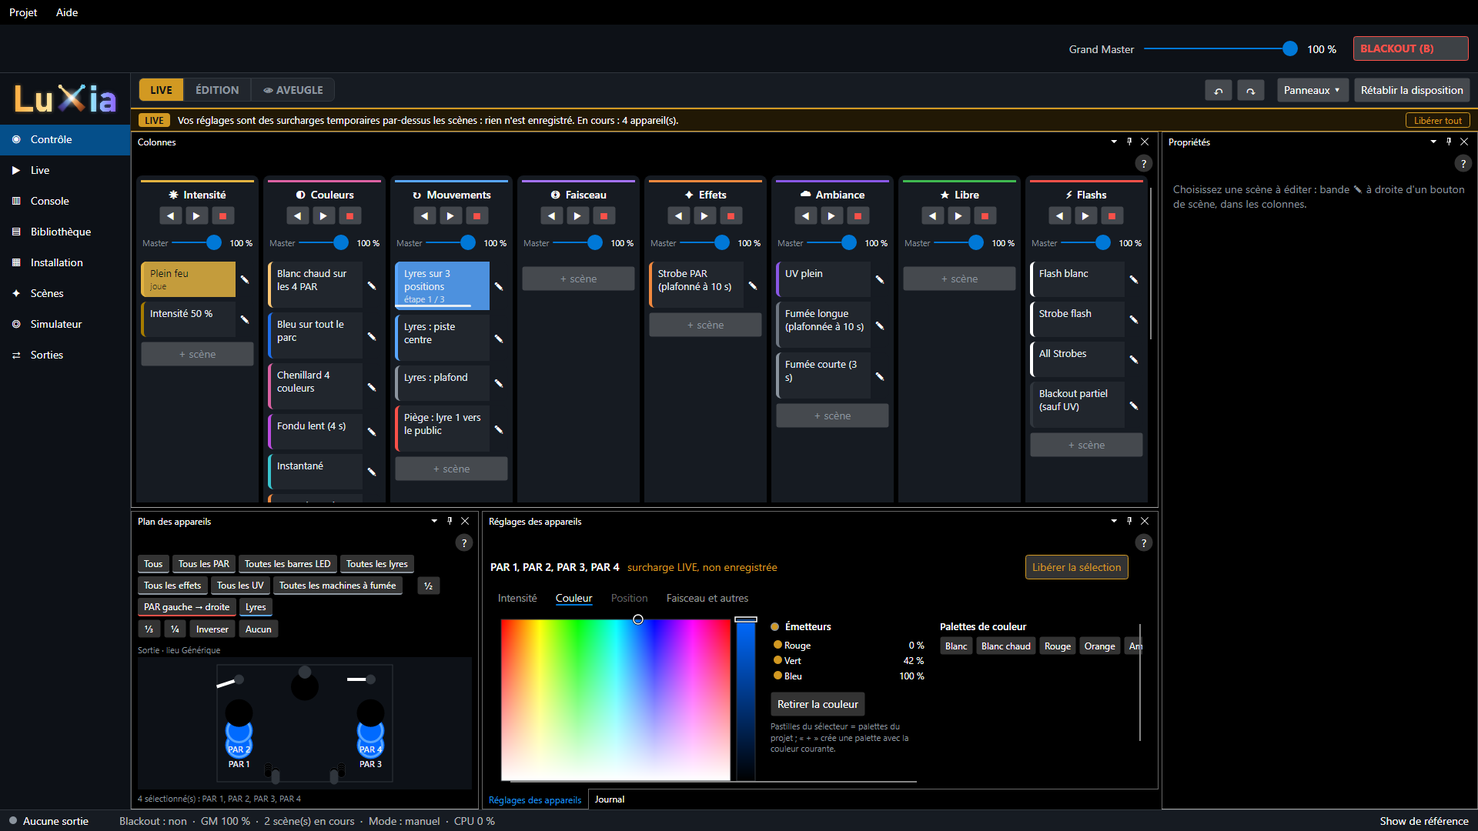
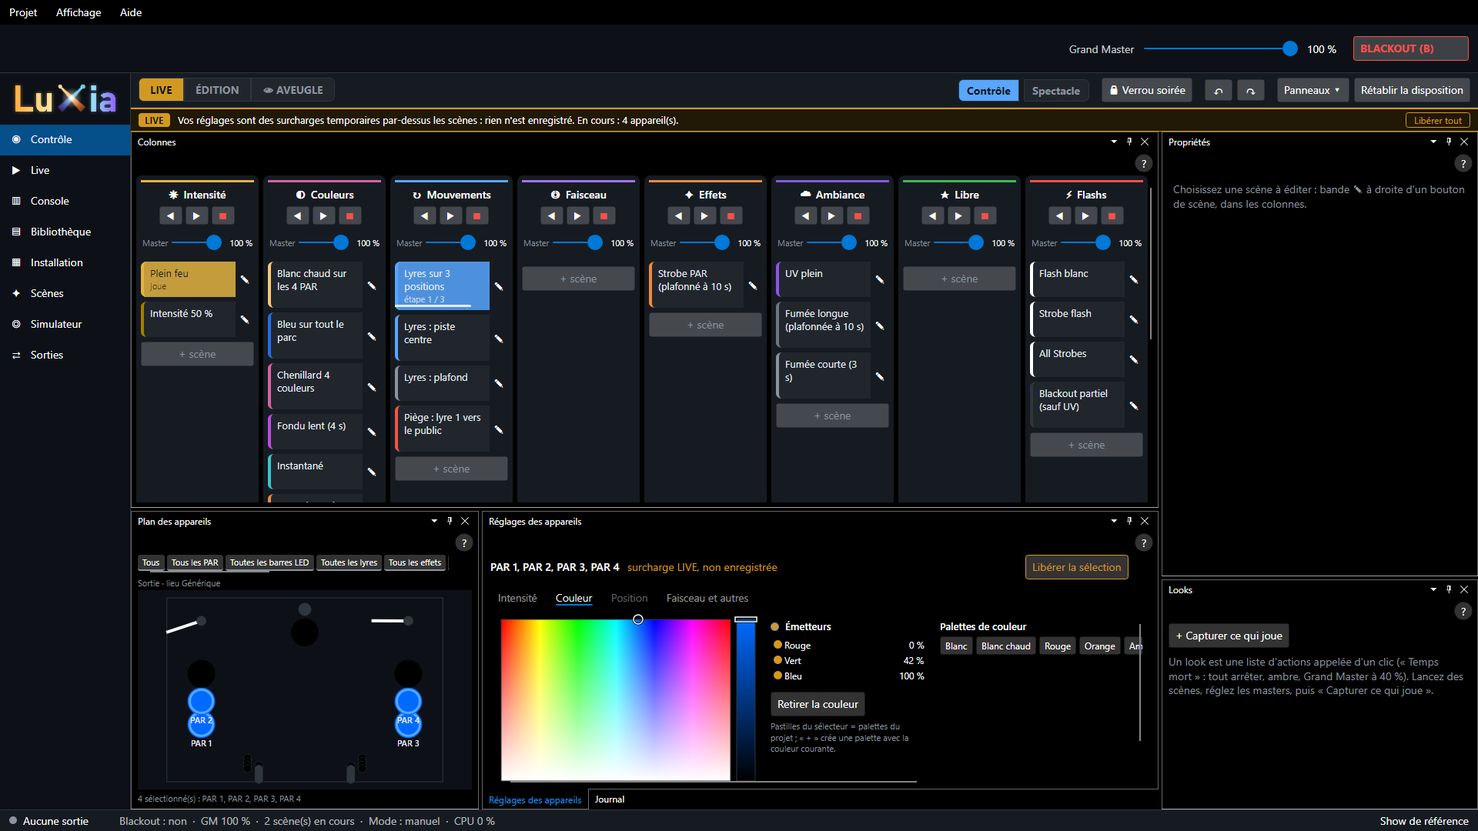
feat(controle): looks sur F1-F12 ; journal technique propre au démarrage (capacités Dock, épaisseur de contour) ; guide, fiches ERG-021 à ERG-024, passation
- Premier lancement réel sur la démo : Dock écrivait un avertissement par bouton (objets de capacités nuls) et le
  contour de la scène éditée était une épaisseur mal typée ; corrigés : 0 avertissement au journal technique.
- Guide ERG-controle §7 (looks, Spectacle, verrou, taille) ; captures de référence rafraîchies ; passation à jour.
- 597 tests verts.

Exigences : ERG-001, ERG-021, ERG-022, ERG-023, ERG-024

diff --git a/src/Luxia.UI.Modules.Control/Docking/DockTree.cs b/src/Luxia.UI.Modules.Control/Docking/DockTree.cs
@@ -59,6 +59,47 @@ public static class DockTree
         return (null, PanelPlace.Absent);
     }
 
+    /// <summary>Tous les éléments de la disposition : groupes et panneaux, fenêtres détachées et panneaux fermés compris.</summary>
+    public static IEnumerable<IDockable> All(IRootDock root)
+    {
+        ArgumentNullException.ThrowIfNull(root);
+        foreach (var dockable in Walk(root))
+        {
+            yield return dockable;
+        }
+
+        foreach (var hidden in root.HiddenDockables ?? [])
+        {
+            yield return hidden;
+        }
+
+        foreach (var window in root.Windows ?? [])
+        {
+            if (window.Layout is { } layout)
+            {
+                foreach (var dockable in All(layout))
+                {
+                    yield return dockable;
+                }
+            }
+        }
+    }
+
+    private static IEnumerable<IDockable> Walk(IDockable dockable)
+    {
+        yield return dockable;
+        if (dockable is IDock dock)
+        {
+            foreach (var child in dock.VisibleDockables ?? [])
+            {
+                foreach (var inner in Walk(child))
+                {
+                    yield return inner;
+                }
+            }
+        }
+    }
+
     /// <summary>Premier groupe d'onglets de panneaux (pour y remettre un panneau absent).</summary>
     public static IToolDock? FirstToolDock(IDock dock)
     {

diff --git a/src/Luxia.UI.Modules.Control/Views/ControlView.axaml.cs b/src/Luxia.UI.Modules.Control/Views/ControlView.axaml.cs
@@ -104,6 +104,13 @@ public partial class ControlView : UserControl
                 return;
             }
 
+            // ERG-023 : F1 à F12 jouent les looks 1 à 12.
+            if (e.Key is >= Key.F1 and <= Key.F12 && e.KeyModifiers == KeyModifiers.None && vm.Looks.PlayAt(e.Key - Key.F1))
+            {
+                e.Handled = true;
+                return;
+            }
+
             if (e.Key == Key.Escape && vm.HasModeAction)
             {
                 vm.ModeActionCommand.Execute(null);
@@ -172,6 +179,19 @@ public partial class ControlView : UserControl
     // l'a rangé (fenêtres détachées et panneaux fermés compris).
     private void AssignContexts(IRootDock root)
     {
+        // Dock lie ses boutons à ces objets de « capacités » : nuls, chaque liaison écrivait un avertissement au journal
+        // technique (vu au premier lancement réel) ; vides, ils ne changent rien au comportement.
+        foreach (var dockable in DockTree.All(root))
+        {
+            dockable.DockCapabilityOverrides ??= new DockCapabilityOverrides();
+            if (dockable is IDock dock)
+            {
+                dock.DockCapabilityPolicy ??= new DockCapabilityPolicy();
+            }
+        }
+
+        root.RootDockCapabilityPolicy ??= new DockCapabilityPolicy();
+
         if (ViewModel is not { } vm)
         {
             return;

diff --git a/src/Luxia.UI.Modules.Control/LooksPanelViewModel.cs b/src/Luxia.UI.Modules.Control/LooksPanelViewModel.cs
@@ -68,6 +68,18 @@ public sealed partial class LooksPanelViewModel : ViewModelBase
         _journal.Log($"✦ look « {look.Name} »");
     }
 
+    /// <summary>Touches F1 à F12 (écran Contrôle) : joue le look de ce rang (0 = le premier). Renvoie vrai s'il existe.</summary>
+    public bool PlayAt(int index)
+    {
+        if (index < 0 || index >= Looks.Count)
+        {
+            return false;
+        }
+
+        Play(Looks[index]);
+        return true;
+    }
+
     /// <summary>Crée un look qui refait ce qui joue maintenant.</summary>
     [RelayCommand]
     private async Task CaptureAsync()
@@ -165,9 +177,10 @@ public sealed partial class LooksPanelViewModel : ViewModelBase
     {
         var project = _runtime.Project;
         Looks.Clear();
-        foreach (var look in project.Looks.Looks)
+        foreach (var (look, index) in project.Looks.Looks.Select((l, i) => (l, i)))
         {
-            Looks.Add(new LookButtonViewModel(look, [.. look.Actions.Select(a => LookRules.Describe(a, project.Scenes, project.Layers))]));
+            var key = index < 12 ? $"F{index + 1}" : string.Empty;
+            Looks.Add(new LookButtonViewModel(look, [.. look.Actions.Select(a => LookRules.Describe(a, project.Scenes, project.Layers))], key));
         }
 
         OnPropertyChanged(nameof(IsEmpty));

diff --git a/tests/Luxia.UI.Tests/ControlPanelsTests.cs b/tests/Luxia.UI.Tests/ControlPanelsTests.cs
@@ -548,6 +548,22 @@ public sealed class ControlPanelsTests : IAsyncLifetime
     }
 
     [Fact]
+    [Trait("Exigence", "ERG-023")]
+    public async Task Looks_FunctionKeys_PlayByRank()
+    {
+        _host.Dialogs.TextAnswers.Enqueue("Premier");
+        await _vm.Looks.CaptureCommand.ExecuteAsync(null);
+        _host.Dialogs.TextAnswers.Enqueue("Second");
+        await _vm.Looks.CaptureCommand.ExecuteAsync(null);
+
+        _vm.Looks.Looks.Select(l => l.Key).ShouldBe(["F1", "F2"]);
+        _vm.Looks.PlayAt(1).ShouldBeTrue();
+        _vm.Looks.PlayAt(5).ShouldBeFalse("pas de 6e look");
+        _vm.Refresh();
+        _vm.Journal.Lines.ShouldContain(l => l.Contains("look « Second »"));
+    }
+
+    [Fact]
     [Trait("Exigence", "ERG-024")]
     public void LayoutPreset_SwitchesBetweenControlAndShow()
     {

diff --git a/src/Luxia.UI.Modules.Control/LookButtonViewModel.cs b/src/Luxia.UI.Modules.Control/LookButtonViewModel.cs
@@ -5,7 +5,8 @@ namespace Luxia.UI.Modules.Control;
 /// <summary>Un look affiché : nom, couleur, actions lisibles.</summary>
 /// <param name="Look">Look.</param>
 /// <param name="Lines">Actions en français, une par ligne.</param>
-public sealed record LookButtonViewModel(Look Look, IReadOnlyList<string> Lines)
+/// <param name="Key">Touche qui le joue (« F1 » à « F12 »), ou vide.</param>
+public sealed record LookButtonViewModel(Look Look, IReadOnlyList<string> Lines, string Key = "")
 {
     /// <summary>Nom.</summary>
     public string Name => Look.Name;

diff --git a/src/Luxia.UI.Modules.Control/ControlSceneViewModel.cs b/src/Luxia.UI.Modules.Control/ControlSceneViewModel.cs
@@ -64,7 +64,7 @@ public sealed partial class ControlSceneViewModel : ViewModelBase
     public string EditBandFill => IsEditTarget ? EditColor : "#161B22";
 
     /// <summary>Épaisseur du contour de la scène éditée.</summary>
-    public double OutlineThickness => IsEditTarget ? 2 : 0;
+    public Avalonia.Thickness OutlineThickness => new(IsEditTarget ? 2 : 0);
 
     /// <summary>
     /// Affiche tout de suite l'état attendu après un clic, sans le laisser écraser par un état du moteur antérieur à la

diff --git a/docs/32-passation.md b/docs/32-passation.md
@@ -2,9 +2,10 @@
 
 > Point d'entrée pour reprendre le développement dans une **nouvelle discussion** sans relire tout l'historique.
 > À tenir à jour à chaque fin de phase (section 1, 4 et 5). Dernière mise à jour : 2026-09-27, **P5 validée** (`main`, étiquette
-> **`v1.004`**) ; **analyse ergonomique validée** (doc 60, branche `ergo/analyse`) ; **prototype technique et maquettes
-> « Contrôle » réalisés** (version de développement 1.005, `v1.005.002`), **en attente des essais et de la validation de
-> l'utilisateur** (Q35). Ensuite : développement par lots (doc 60 §7.4), avant P6.
+> **`v1.004`**) ; **chantier ergonomique en cours** sur `ergo/analyse` (version de développement 1.005, dernière
+> étiquette **`v1.005.004`**) : l'**écran Contrôle** est dans LuXia, développé en autonomie la nuit du 2026-09-27 au
+> 28 par délégation de l'utilisateur (choix C1-C11 du doc 60 §11, à rediscuter à l'usage). **En attente de l'essai de
+> l'utilisateur** : guide [demos/ERG-controle.md](demos/ERG-controle.md) sur `samples/Démo Contrôle`.
 
 ## 1. Où en est-on
 
@@ -134,6 +135,28 @@
   - **À faire** : dérouler le guide [demos/ERG-prototype-et-maquettes.md](demos/ERG-prototype-et-maquettes.md) avec
     l'utilisateur (un point à la fois), relever les mesures (ERG-006), faire trancher **Q35** ; puis développement par
     lots (charte et composants → Contrôle → Live / Spectacle → Installation / Bibliothèque → Affectations).
+- **Nuit du 2026-09-27 au 28 — développement par délégation** (« prends les décisions qui te semblent les plus
+  pertinentes, présente-moi tes choix à la fin » ; « va le plus loin que tu peux, pousse les tests au maximum, réalise
+  des configurations d'exemple ») :
+  - **Écran « Contrôle »** (nouveau projet `Luxia.UI.Modules.Control`, en tête de la navigation ; Live et Scènes
+    restent, C5) : `ControlSession` (modes **LIVE / ÉDITION / AVEUGLE**, sélection partagée, un geste = une
+    annulation, écrit 0,5 s après le dernier mouvement), panneaux ancrables Dock (**Colonnes**, **Propriétés**,
+    **Plan des appareils**, **Réglages des appareils**, **Journal**, **Looks**, **Pilote automatique**), dispositions
+    **Contrôle** et **Spectacle** enregistrées sur le poste, menus Dock en français, **verrou soirée**, **F1-F12 =
+    looks**.
+  - **Moteur** : **zone permise** (`allowed` dans `lieux.json`, F7) ; défaut corrigé (surcharge span choisie pour un
+    tableau, doc 03 §11).
+  - **Données** : `looks.json` (ERG-023), `uiScale` des préférences (taille 100 / 125 / 150 %), 8e couche par défaut
+    **« Libre »** (ERG-008, fader 8 de l'APC).
+  - **Identité visuelle** (dossier de l'utilisateur → `docs/identite`) : icône, logo au démarrage, dans « À propos »,
+    en tête de la navigation, README.
+  - **Démo** : `tools/generer-demo-controle.py` → `samples/Démo Contrôle` (ignoré par Git) ; captures réelles dans
+    `docs/maquettes/captures`.
+  - Exigences **ERG-008 à ERG-024** (fiches), Q35 close par délégation. Tests : 597, tous verts ; 0 avertissement de
+    compilation ; 0 avertissement au journal technique au démarrage réel.
+  - **Reste du chantier** (doc 60 §7.4) : affectation MIDI / clavier par surcouche (E6, MIDI-008), déclencheurs MIDI
+    des looks, molette, mixeur live, retrait des écrans Live et Scènes après validation, Installation / Bibliothèque
+    en panneaux.
 ## 2. Lire avant de coder (dans cet ordre)
 
 1. [README](README.md), [02 – Principes](02-principes-et-architecture-fonctionnelle.md) (dont le **registre des décisions** §19, D1 à D28), [glossaire](glossaire.md).
@@ -159,6 +182,7 @@
 | `Luxia.Hosting` | Assemblage (D20), journal, session de projet, recompilation du moteur, moteur d'aperçu, outils sans interface, versions du projet, reprise, MIDI | `LuxiaRuntime` (`Engine`, `Preview`, `Midi`, `PendingResume`), `ProjectSession`, `ShowService`, `ProjectVersions`, `Tools/ProjectValidator`, `Tools/ScenarioRunner` |
 | `Luxia.UI.Controls` | Fader, moniteur, barre de plages, barre d'univers, simulateur 2D, historique annuler / rétablir, dialogues | `Fader`, `OutputMonitor`, `UniverseBar`, `SimulatorCanvas`, `RangeBar`, `UndoHistory` |
 | `Luxia.UI.Modules.*` | Un écran par projet : **Live** (premier écran), Console (+ faders d'appareil), Library, Outputs, Installation, Simulator, Scenes (+ fenêtres Couches…, Zones interdites…) | `LiveViewModel`, `ConsoleViewModel`, `FixtureFadersViewModel`, `LibraryViewModel`, `InstallationViewModel`, `SimulatorViewModel`, `ScenesViewModel` (+ `ProgrammerViewModel`, `SceneEditorViewModel`, `PalettesViewModel`, `LayersEditorViewModel`, `ZonesEditorViewModel`) |
+| `Luxia.UI.Modules.Control` | Écran **Contrôle** (doc 60) : session d'édition LIVE / ÉDITION / AVEUGLE, panneaux ancrables Dock (Colonnes, Propriétés, Plan, Réglages, Journal, Looks, Pilote), dispositions Contrôle / Spectacle, verrou soirée | `ControlSession`, `ControlViewModel`, `*PanelViewModel`, `Docking/ControlDockFactory`, `Docking/ControlLayoutStore`, `Views/ControlView` |
 | `Luxia.App` | Coquille Avalonia (navigation, menu Projet, menu Aide/À propos, barre d'état, verrou mono-instance) | `App`, `MainWindowViewModel`, `Program` |
 | `tools/Luxia.Tools.Headless` | `luxia-headless` : ports, **midi**, lancer, endurance, gigue, relire, projet, **valider**, **jouer**, **scenario** | `Commands`, `ProjectCommands` |
 | `tools/Luxia.Tools.Prototype` | Prototype ergonomique **séparé de LuXia** (`LuXia-Prototype.exe`) : ancrage Dock, dispositions, galerie, mesures, maquettes « Contrôle » ; captures sans écran | `ShellViewModel`, `Docking/PrototypeDockFactory`, `Docking/LayoutStore`, `Panels/*`, `Mockups/*`, `HeadlessCaptures` |
@@ -180,6 +204,7 @@ dotnet run --project src/Luxia.App -- "samples/Show de référence"
 dotnet run --project tools/Luxia.Tools.Headless -- valider "samples/Show de référence"
 dotnet run --project tools/Luxia.Tools.Headless -- jouer "samples/Show de référence" --scene "Chenillard 4 couleurs" --duree 3
 dotnet run --project tools/Luxia.Tools.Captures -- "samples/Show de référence" "<dossier des images>"
+PYTHONIOENCODING=utf-8 python tools/generer-demo-controle.py                  # samples/Démo Contrôle (essai de l'écran Contrôle)
 dotnet run --project tools/Luxia.Tools.Prototype                              # prototype ergonomique
 dotnet run --project tools/Luxia.Tools.Prototype -- --maquettes docs/maquettes # maquettes « Contrôle » en PNG
 ```
@@ -233,3 +258,4 @@ Modèle de message pour ouvrir une discussion :
 | 2026-09-27 | P5 | Guide P5 déroulé pas à pas avec l'utilisateur au matériel (exemples 1 à 13). Corrigés au fil de l'eau, chacun avec sa fiche : trois courses écran / moteur, cellule des sélections automatiques, Problèmes du projet, fumée, clavier, MIDI rapide, fenêtre de démarrage ; parc réel corrigé (BUV463 8 canaux, WT05). 505 tests verts. **Validée, fusionnée dans `main`, étiquette `v1.004`.** Prochaine étape : analyse ergonomique. |
 | 2026-09-27 | Ergonomie | Documentation remise à jour après P5 (anciens noms `Dmx.*` corrigés, notes de modules, doc 03 §11). Analyse ergonomique menée dans la discussion de P5 : lecture Daslight 4 / 5, captures des écrans, doc 60 (charte, déclencheurs et looks, composants, modules) ; **validée par l'utilisateur** (E1-E8, F1-F10). Outil `tools/fiche-exigences.py` versé au dépôt. Suite dans une nouvelle discussion : prototype technique puis maquettes. |
 | 2026-09-27 | Ergonomie | Prototype technique (Dock, grille Pan/Tilt, sélecteur de couleur, galerie, disposition enregistrée) et maquettes « Contrôle » sur `ergo/analyse` (`v1.005.001`, `v1.005.002`), ERG-001 à ERG-007, Q35 ; reliquats du renommage corrigés. **En attente des essais et de la validation de l'utilisateur.** |
+| 2026-09-28 | Ergonomie | Nuit de développement par délégation sur `ergo/analyse` (`v1.005.003`, `v1.005.004`) : écran Contrôle dans LuXia (modes, panneaux ancrables, dispositions Contrôle / Spectacle, verrou soirée, looks, F1-F12), zone permise, 8e couche « Libre », identité visuelle, taille de l'interface, démo `samples/Démo Contrôle` et guide `docs/demos/ERG-controle.md`. ERG-008 à ERG-024. **En attente de l'essai de l'utilisateur ; choix C1-C11 à rediscuter à l'usage.** |

diff --git a/docs/60-ergonomie.md b/docs/60-ergonomie.md
@@ -272,7 +272,7 @@ CONS-061) gardent leur identifiant et leur fiche.
 | ERG-020 | I | ERG | **Démonstration** : `tools/generer-demo-controle.py` fabrique `samples/Démo Contrôle` (couche Libre garnie, étapes nommées, zones permises des lyres) et le guide `docs/demos/ERG-controle.md` déroule l'essai. | Essai de l'utilisateur. |
 | ERG-021 | I | ERG | **Verrou soirée** (E7, §4.6), bouton « 🔒 Verrou soirée » de l'écran Contrôle : revient en LIVE et refuse ÉDITION, AVEUGLE, toute modification de scène (propriétés, étapes, menu contextuel, nouvelle scène), des zones, et annuler / rétablir, en disant pourquoi ; jouer et retoucher en direct restent possibles. Sans mot de passe (« Oui, simple »). | Test. |
 | ERG-022 | M | ERG | **Taille de l'interface** (F8) : menu Affichage → 100 / 125 / 150 %, gardée dans les préférences du poste (`uiScale`) ; les fenêtres détachées gardent leur taille. | Test des préférences ; capture à 125 %. |
-| ERG-023 | I | ERG | **Looks** (F1, §4.8) : `looks.json` (lancer / arrêter des scènes, arrêter une couche, tout arrêter, masters) ; panneau Looks : jouer d'un clic, « Capturer ce qui joue », mettre à jour, renommer, couleur, supprimer ; verrou : jouer seulement ; `valider` signale une référence introuvable. Déclencheurs clavier / MIDI : à venir. | Tests. |
+| ERG-023 | I | ERG | **Looks** (F1, §4.8) : `looks.json` (lancer / arrêter des scènes, arrêter une couche, tout arrêter, masters) ; panneau Looks : jouer d'un clic, « Capturer ce qui joue », mettre à jour, renommer, couleur, supprimer ; verrou : jouer seulement ; `valider` signale une référence introuvable. Touches **F1 à F12** = looks 1 à 12 (écran Contrôle) ; déclencheurs MIDI et entrée DMX : à venir. | Tests. |
 | ERG-024 | I | ERG | **Disposition Spectacle** (§6, F10) à côté de Contrôle, chacune enregistrée à part : colonnes en grand, panneau **Pilote automatique** (place réservée jusqu'à P10, avec les looks comme interventions), Looks, Journal. | Tests ; capture. |
 | ERG-007 | I | ERG | **Maquettes de la disposition Contrôle** (§7.3) : images rendues par Avalonia avec les vrais composants et des données fictives (modes LIVE / ÉDITION / AVEUGLE, scène en édition, zones), validées par l'utilisateur **avant** tout développement des écrans. | Validation de l'utilisateur. |
 

diff --git a/docs/31-matrice-exigences.md b/docs/31-matrice-exigences.md
@@ -359,9 +359,9 @@
 | [SORT-065](exigences/SORT-065.md) | M | Enregistrement des trames visible, chemin copiable | Réalisé |  |
 | [SORT-066](exigences/SORT-066.md) | M | Journal de l'enregistrement : actions, commandes et canaux entrelacés | Réalisé | LiveUvRepeatTests.Recording_JournalInterleavesClicksCommandsAndChannelChanges |
 
-## ERG – 20 exigences, 15 couvertes par des tests automatiques
+## ERG – 24 exigences, 19 couvertes par des tests automatiques
 
-> En cours : 1 · Réalisé : 19
+> En cours : 1 · Réalisé : 23
 
 | Exigence | Pri. | Titre | Statut | Tests automatiques |
 |---|---|---|---|---|
@@ -385,3 +385,7 @@
 | [ERG-018](exigences/ERG-018.md) | I | Colonnes de l'écran Contrôle | Réalisé | ControlPanelsTests.Columns_AreAllLayersByPriority_WithAllTheirScenes<br>ControlPanelsTests.ContextMenu_RenameDuplicateColorLayerHideDelete<br>ControlPanelsTests.EditBand_ChoosesThenReleasesTheScene_AndOutlinesIt<br>ControlPanelsTests.FlashLayer_PlaysOnlyWhileHeld<br>(+4) |
 | [ERG-019](exigences/ERG-019.md) | I | Réglages des appareils | Réalisé | ControlPanelsTests.Settings_AimTwoLyres_Relative_EachGetsItsOwnValues<br>ControlPanelsTests.Settings_ColorInLive_OverridesOutput_AndKeepsTheRequestedColorShown<br>ControlPanelsTests.Settings_HeaderSaysWhereSettingsGo<br>ControlPanelsTests.Settings_IntensityInEdit_IsWrittenAfterTheGesture<br>(+3) |
 | [ERG-020](exigences/ERG-020.md) | I | Démonstration | Réalisé |  |
+| [ERG-021](exigences/ERG-021.md) | I | Verrou soirée | Réalisé | ControlPanelsTests.Lock_PlayAndLiveStillWork_EditingIsRefused |
+| [ERG-022](exigences/ERG-022.md) | M | Taille de l'interface | Réalisé | PreferencesAndProjectTests.UiScale_DefaultsTo100Percent_AndRoundTrips |
+| [ERG-023](exigences/ERG-023.md) | I | Looks | Réalisé | ControlPanelsTests.Looks_CaptureWhatPlays_ThenReplayItFromAnotherState<br>ControlPanelsTests.Looks_FunctionKeys_PlayByRank<br>ControlPanelsTests.Looks_RenameColorDelete_AndLockRefusesEditingButNotPlaying<br>LookRulesTests.Commands_FollowTheActionsInOrder_IncompleteOnesAreSkipped<br>(+2) |
+| [ERG-024](exigences/ERG-024.md) | I | Disposition Spectacle | Réalisé | ControlLayoutTests.ShowPreset_BigColumnsPilotLooksJournal_SavedSeparately<br>ControlPanelsTests.LayoutPreset_SwitchesBetweenControlAndShow |

diff --git a/docs/demos/ERG-controle.md b/docs/demos/ERG-controle.md
@@ -85,12 +85,22 @@ panneau a un **?** qui explique à quoi il sert.
 | 2 | Fermer un panneau (✕), puis **Panneaux ▾** | « (fermé) » ; le choisir le remet à sa place. |
 | 3 | Quitter LuXia, relancer | Même disposition (enregistrée sur ce poste). **Rétablir la disposition** revient à celle livrée. |
 
-## 7. Ce qui reste comme avant
+## 7. Looks, disposition Spectacle, verrou, taille
+
+| # | Faire | Attendu |
+|---|---|---|
+| 1 | Panneau **Looks** (onglet sous Propriétés) : la démo en a trois, **F1** « Temps mort », **F2** « Retour de piste », **F3** « Ambiance UV » | Clic (ou touche F1…) : tout s'arrête et le look rejoue ses scènes et ses masters ; le Journal note « ✦ look ». Survol : la liste des actions. |
+| 2 | Lancer deux ou trois scènes, régler un master, **+ Capturer ce qui joue**, nommer | Nouveau look qui refait cet état ; clic droit : Mettre à jour, Renommer, Couleur, Supprimer. |
+| 3 | En haut : **Spectacle** | Colonnes en grand, panneau **Pilote automatique** (place réservée pour P10) avec les looks en gros boutons, Journal. **Contrôle** : on retrouve sa disposition. |
+| 4 | **🔒 Verrou soirée** | Retour en LIVE ; ÉDITION, AVEUGLE, ✎, « + scène », propriétés, zones, Ctrl + Z : refusés avec la raison ; jouer, retoucher en direct et les looks marchent. Re-clic : déverrouillé. |
+| 5 | Menu **Affichage → Taille de l'interface : 125 %** (ou 150 %) | Tout grossit ; gardé au prochain lancement. |
+
+## 8. Ce qui reste comme avant
 
 Les écrans **Live** et **Scènes** sont toujours là (choix C5) : on pourra comparer. Ils seront retirés quand le
 Contrôle aura fait ses preuves.
 
-## 8. Captures de référence
+## 9. Captures de référence
 
 `dotnet run --project tools/Luxia.Tools.Captures -- "samples/Show de référence" <dossier> 1920 1080` écrit aussi
 « Contrôle - LIVE surcharge », « Contrôle - ÉDITION », « Contrôle - AVEUGLE lyres », « Contrôle - zones » (copies dans

diff --git a/docs/exigences/ERG-023.md b/docs/exigences/ERG-023.md
@@ -1,0 +1,33 @@
+# ERG-023 – Looks
+
+| Champ | Valeur |
+|---|---|
+| **Statut** | Réalisé |
+| **Priorité** | I |
+| **Phase** | ERG |
+| **Source** | [doc 60 – 9. Exigences du chantier](../60-ergonomie.md) |
+| **Remarque** | Looks jouables d'un clic ou de F1-F12 ; déclencheurs MIDI / DMX et usage par le pilote automatique : à venir (P10). |
+| **Liens** | doc 60 §4.8, F1 ; doc 50 looks.json ; glossaire |
+
+## Description
+
+> **Looks** (F1, §4.8) : `looks.json` (lancer / arrêter des scènes, arrêter une couche, tout arrêter, masters) ; panneau Looks : jouer d'un clic, « Capturer ce qui joue », mettre à jour, renommer, couleur, supprimer ; verrou : jouer seulement ; `valider` signale une référence introuvable. Touches **F1 à F12** = looks 1 à 12 (écran Contrôle) ; déclencheurs MIDI et entrée DMX : à venir.
+
+**Critère d'acceptation** : Tests.
+
+## Réalisation
+
+- `Luxia.Scenes` : Look, LookAction, LookActionKind, LookSet, LookStore, LookRules ; `ProjectSession.Looks/SaveLooks` ; `ProjectValidator.CheckLooks` ; `LooksPanelViewModel`, `Views/LooksPanelView`, `Views/PilotPanelView`.
+
+## Tests
+
+- LookRulesTests
+- ControlPanelsTests.Looks_*
+
+## Historique
+
+| Date | Par | Type | Entrée |
+|---|---|---|---|
+| 2026-09-28 | Conception | Création | Exigence rédigée au cahier des charges (doc 60, 9. Exigences du chantier). |
+| 2026-09-28 | Claude | Décision | Premier pas vers les déclencheurs (F1) : un look se crée en capturant ce qui joue (tout arrêter, relancer les scènes sauf les flashs, masters de couche et Grand Master) ; le fichier est simple à écrire pour une IA (doc 50). Touches F1-F12 dans l'écran Contrôle. |
+| 2026-09-28 | Claude | Développement | 88692dc. |

diff --git a/docs/exigences/ERG-021.md b/docs/exigences/ERG-021.md
@@ -1,0 +1,33 @@
+# ERG-021 – Verrou soirée
+
+| Champ | Valeur |
+|---|---|
+| **Statut** | Réalisé |
+| **Priorité** | I |
+| **Phase** | ERG |
+| **Source** | [doc 60 – 9. Exigences du chantier](../60-ergonomie.md) |
+| **Remarque** | À essayer (guide ERG-controle §7). |
+| **Liens** | doc 60 §4.6, E7 |
+
+## Description
+
+> **Verrou soirée** (E7, §4.6), bouton « 🔒 Verrou soirée » de l'écran Contrôle : revient en LIVE et refuse ÉDITION, AVEUGLE, toute modification de scène (propriétés, étapes, menu contextuel, nouvelle scène), des zones, et annuler / rétablir, en disant pourquoi ; jouer et retoucher en direct restent possibles. Sans mot de passe (« Oui, simple »).
+
+**Critère d'acceptation** : Test.
+
+## Réalisation
+
+- `ControlSession.IsLocked/SetLocked/Refused`, `ControlViewModel.ToggleLock`, `CanEdit` / `IsEditable` / `CanEditZones` des panneaux.
+
+## Tests
+
+- ControlPanelsTests.Lock_PlayAndLiveStillWork_EditingIsRefused
+- ControlPanelsTests.Looks_RenameColorDelete_AndLockRefusesEditingButNotPlaying
+
+## Historique
+
+| Date | Par | Type | Entrée |
+|---|---|---|---|
+| 2026-09-28 | Conception | Création | Exigence rédigée au cahier des charges (doc 60, 9. Exigences du chantier). |
+| 2026-09-28 | Claude | Décision | « Oui, simple » (E7) : pas de mot de passe ; le verrou vit dans l'écran Contrôle (les autres écrans restent accessibles tant qu'ils existent, C5) ; il bloque aussi annuler / rétablir (une annulation modifie les scènes). |
+| 2026-09-28 | Claude | Développement | a5ae6d6. |
